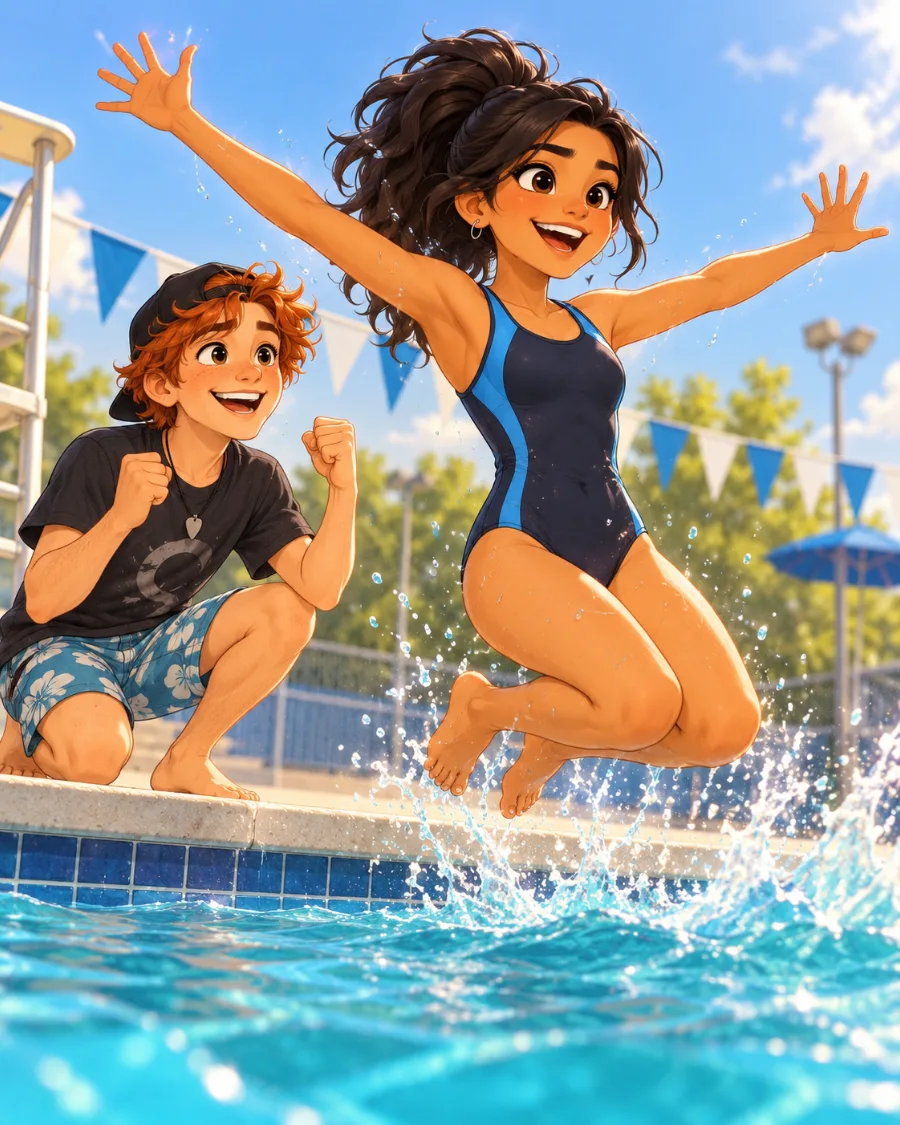
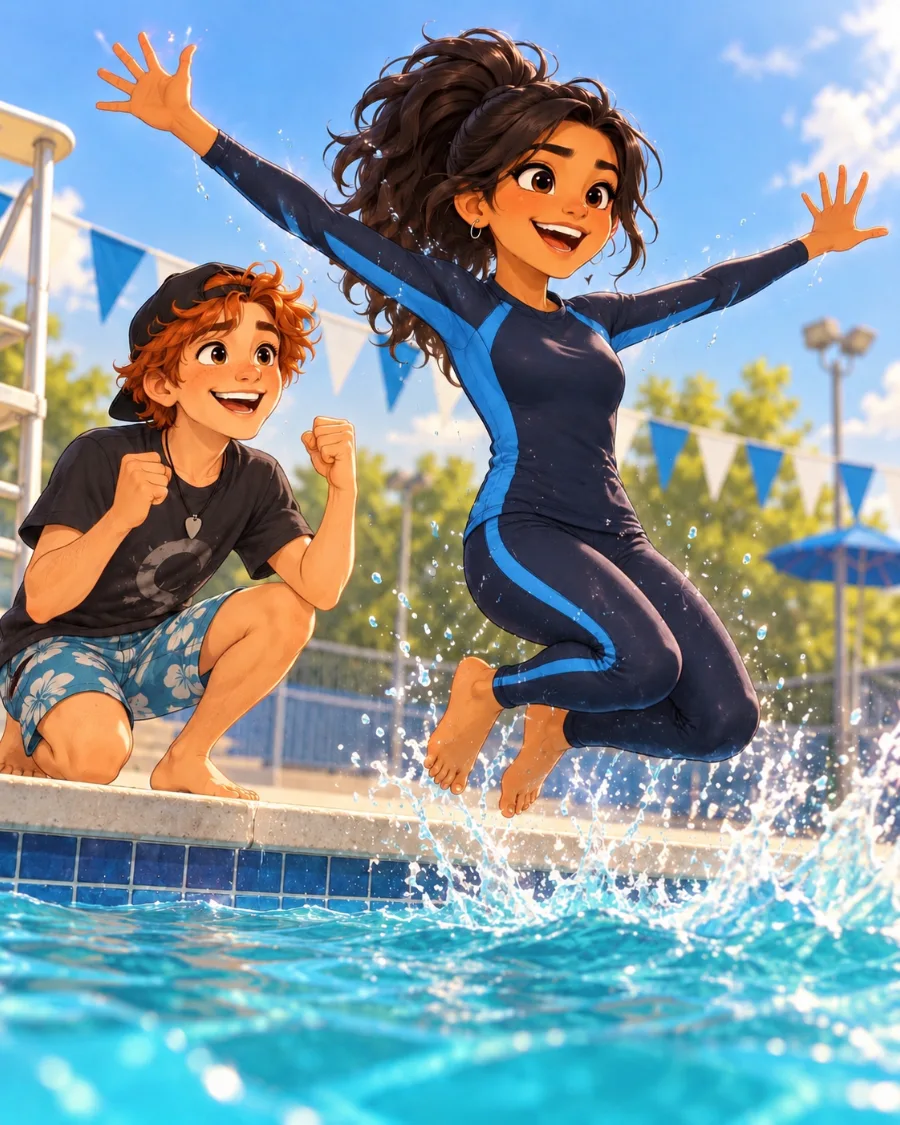
hindu cast fixes: real Devanagari in the Sanskrit scene, rash guard at the pool, big-book scene on day 697, summit with our approved mascot added (owner)

diff --git a/apps/app/src/content/cast.ts b/apps/app/src/content/cast.ts
@@ -99,6 +99,7 @@ const SCENE = {
   "logic": require("../../assets/cast/hindu/scene-logic.webp"),
   "yoga": require("../../assets/cast/hindu/scene-yoga.webp"),
   "reflection": require("../../assets/cast/hindu/scene-reflection.webp"),
+  "big-book": require("../../assets/cast/hindu/scene-big-book.webp"),
   "chanting": require("../../assets/cast/hindu/scene-chanting.webp"),
   "sunrise-offering": require("../../assets/cast/hindu/scene-sunrise-offering.webp"),
   "havan": require("../../assets/cast/hindu/scene-havan.webp"),
@@ -136,7 +137,8 @@ const HINDU_SCENES: Record<number, number> = {
   1062: SCENE["durga-puja"], 1072: SCENE.saraswati, 1073: SCENE.rangoli, 1160: SCENE.logic, 1181: SCENE.yoga, 1192: SCENE.reflection,
   1244: SCENE.chanting, 1262: SCENE["sunrise-offering"], 1268: SCENE.havan, 1274: SCENE["chant-lesson"], 1280: SCENE.healing,
   1300: SCENE.kites, 1328: SCENE.museum, 1353: SCENE.garland, 1370: SCENE.gopuram, 1394: SCENE.onam,
-  // year 5 scenes (avatars, critical, practice, arrivals, sam-teaches, stars, summit) are in assets/cast/hindu; placed when year 5 is written
+  697: SCENE["big-book"],
+  // year 5 scenes (avatars, critical, practice, arrivals, sam-teaches, stars, summit, sanskrit) are in assets/cast/hindu; placed when year 5 is written
 };
 
 const C_SCENE = {
